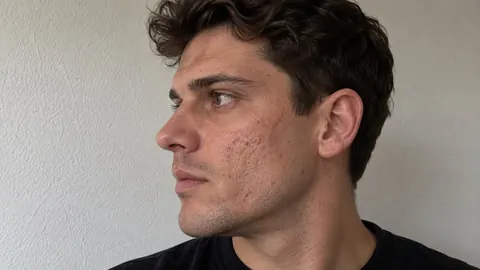
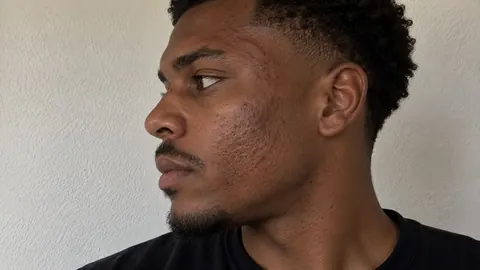
pelos

diff --git a/scripts/optimize_images.py b/scripts/optimize_images.py
@@ -98,6 +98,7 @@ for name in [
     "pelos-indesejados-encravados-v2",
     "marcas-acne-v2",
     "textura-irregular-v2",
+    "excesso-penugem-v2",
     "flacidez-facial-v2",
     "linhas-finas-envelhecimento-v2",
     "pele-baca-luminosidade-v2",

diff --git a/problemas/excesso-de-penugem.md b/problemas/excesso-de-penugem.md
@@ -1,0 +1,22 @@
+---
+layout: problem
+title: Excesso de Penugem
+seo_title: Excesso de Penugem Facial
+description: Conheça o excesso de penugem facial e saiba como o dermaplaning pode remover delicadamente os pelos finos à superfície da pele.
+section_name: Preocupações
+section_url: /problemas/
+image: /assets/images/problemas/excesso-penugem-v2.webp
+image_alt: Perfil facial com penugem fina visível na zona da face
+intro: A penugem fina é natural, mas quando se torna mais visível pode influenciar a suavidade aparente da pele e o acabamento da maquilhagem.
+related_treatments:
+  - dermaplaning-seixal
+faq:
+  - question: O dermaplaning faz a penugem crescer mais grossa?
+    answer: Não. O procedimento corta o pelo à superfície e não altera o folículo, a espessura nem o ritmo natural de crescimento.
+  - question: O dermaplaning pode ser realizado em qualquer pele?
+    answer: A sensibilidade e o estado atual da pele são avaliados antes da sessão. Se existir irritação ou inflamação ativa, poderá ser recomendado adiar o procedimento.
+---
+
+## Como identificar esta preocupação
+
+A penugem pode tornar-se mais evidente nas laterais do rosto, nas bochechas, no queixo ou junto à linha do maxilar, sobretudo sob luz direta. Apesar de ser uma característica natural da pele, é possivel reduzi-la.
